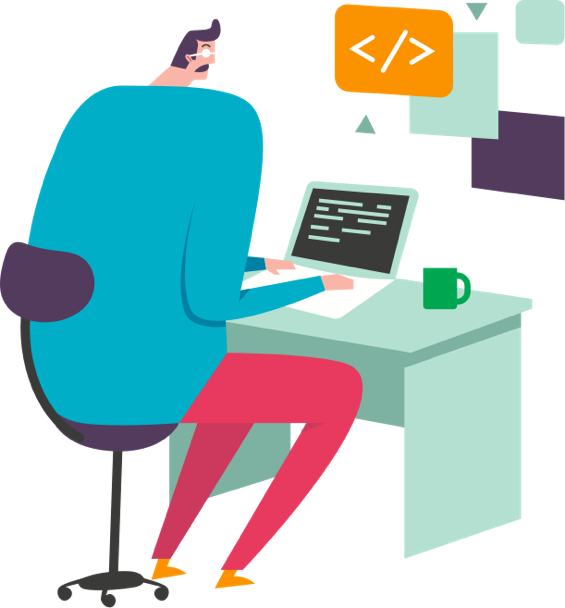
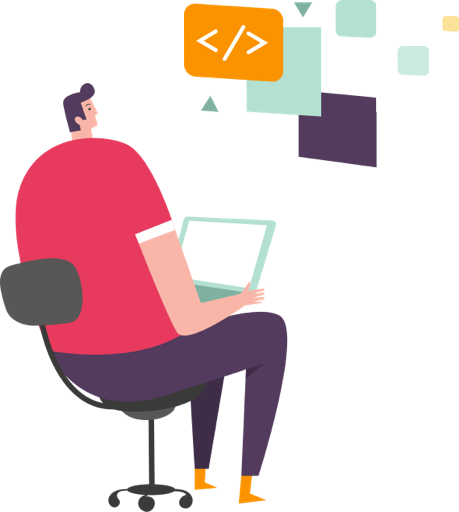
hero section completed

diff --git a/assets/css/style.css b/assets/css/style.css
@@ -75,31 +75,108 @@ input:focus {
 
 /* hero section */
 .hero_overlay{
-    width: 1080px;
+    width: 100vw;
     margin:auto;
-    height: 500px;
-    background-color:blue;
+    height: 400px;
+    background-image: url(../img/section1_overlay.svg);
+    transform: scaleY(-1);
+    margin-top: 200px; 
+    justify-content: center;  
 }
+.hero_area{
+    width: 1080px;
+    margin: auto;
+    justify-content: space-between;
+    align-items: center;
+    transform: scaleY(-1);
+}
+.title_hero{
+    height: 550px;
+    width: 350px;
+    flex-direction: column;
+    justify-content: space-around;
+    padding-bottom: 200px;  
+
+}
+.title_hero h1{
+    font-size: 2.7rem;
+    color: #513e5e;
+}
+.title_hero h4{
+    font-size: 1rem;
+    color: #513e5e;
+    font-weight: 500;
+    line-height: 25px;
+}
+.down_btn{
+    height: 40px;
+    width: 220px;
+    border-radius: 5px;
+    border: #22ad96;
+    background-color: #22ad96;
+    color: white;
+    font-weight: 700;
+}
+
+.fa-download{
+    margin-right: 10px;
+}
+.img_hero{
+    height: 550px;
+    padding-bottom: 50px;   
+}
+
+.toggle{
+    position: sticky;
+    top: 100%;
+    right: 0;
+    flex-direction: column;
+    height: 140px;
+    width: 35px;
+    transform: scaleY(-1);
+    background-color: white;
+    align-items: center;
+    justify-content: space-around;
+    color: #513e5e;
+    border-radius: 5px;
+} 
 
 /* skill section */
 .main_skill_container{
     width: 1080px;
     margin:auto;
-    height: 500px;
-    background-color:green;
+    height: 600px;
+    
+}
+.title_container{
+    height: 200px;
 
 }
+.title_container h5{
+    text-align: center;
+    text-transform: uppercase;
+    padding-top: 50px;
+    color: grey;
+    font-weight: 400;
+}
+.title_container h2{
+    font-size: 2.6rem;
+}
+.double_color{
+    justify-content: center;
+}
+
 /* quality section */
 .main_quality_container{
     width: 1080px;
     margin:auto;
-    height: 500px;
-    background-color:yellow;
+    height: 600px;
+    background-color:green;
 }
 
 /* data section */
 .data_row{
-    width: 1028px;
+    width: 1080px;
     margin:auto;
     height: 200px;
     background-color:grey;
@@ -109,7 +186,7 @@ input:focus {
 .main_courses_container{
     width: 1080px;
     margin:auto;
-    height: 500px;
+    height: 600px;
     background-color:black;
 }
 
@@ -117,7 +194,7 @@ input:focus {
 .learning_container{
     width: 1080px;
     margin:auto;
-    height: 500px;
+    height: 600px;
     background-color:pink;
 }
 
@@ -125,7 +202,7 @@ input:focus {
 .main_events_container{
     width: 1080px;
     margin:auto;
-    height: 500px;
+    height: 600px;
     background-color:orange;
 }
 
@@ -133,7 +210,7 @@ input:focus {
 .main_testimonial_container{
     width: 1080px;
     margin:auto;
-    height: 500px;
+    height: 600px;
     background-color:olive;
 }
 

diff --git a/index.html b/index.html
@@ -18,6 +18,7 @@
         <!-- container vue istanza -->
         <div id="app">
             <header>
+                
                 <!-- navbar -->
                 <div class="navbar d_flex">
                     <img id="logo" src="assets/img/dark_logo.png" alt="">
@@ -42,13 +43,23 @@
 
                 <!-- hero section -->
                 <div class="hero_overlay d_flex">
-                    <div class="title_hero d_flex">
+                    <div class="hero_area d_flex">
+                        <div class="title_hero d_flex">
+                            <h1>Complete Your Dreams in JavaS Programming</h1>
+                            <h4>Learn any coding program in distance and for a resonable fee. You dont'have to struggle alone, you've got our assistance and help.</h4>
+                            <button class="down_btn"><i class="fas fa-download"></i>Download free E-book</button>
 
+                        </div>
+                        <div class="half_pg_picture">
+                            <img class="img_hero" src="assets/img/section1_01.png" alt="">
+                        </div>
                     </div>
-                    <div class="img_hero half_pg_picture">
-
+                    <div class="toggle d_flex">
+                        <i class="fas fa-ruler-combined"></i>
+                        <i class="far fa-futbol"></i>
+                        <i class="fas fa-book"></i>
+                        <i class="fas fa-shopping-cart"></i>
                     </div>
-
                 </div>
                 <!-- //hero section -->
             </header>
@@ -58,7 +69,11 @@
                 <section>
                     <div class="main_skill_container">
                         <div class="title_container">
-
+                            <h5>Start learling code coding languages</h5>
+                            <div class="double_color d_flex">
+                                <h2>Build Your Dream</h2>
+                                <h2 id="green_title">TODAY</h2>
+                            </div>
                         </div>
                         <div class="skill_container d_flex">
                             <div class="skill_card d_flex"></div>
